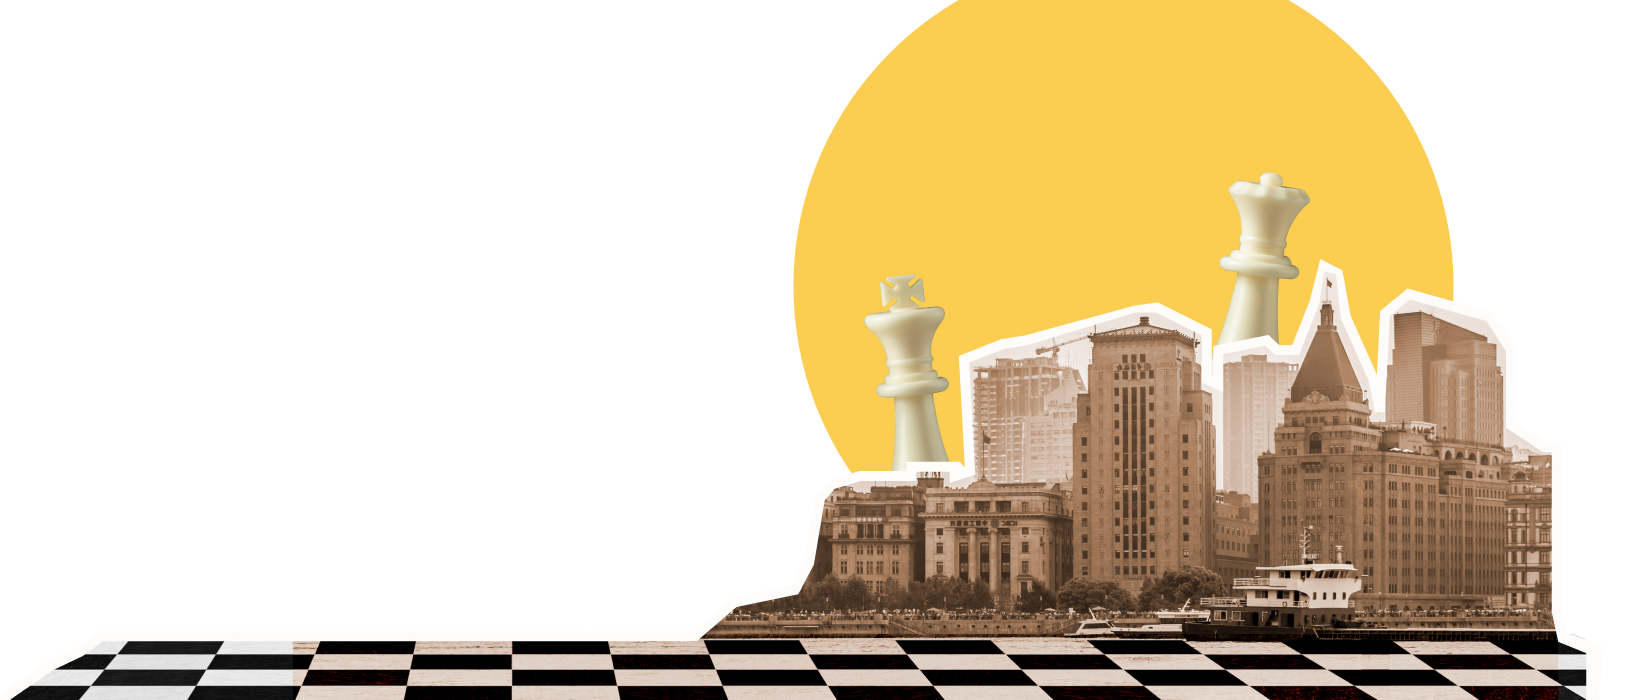
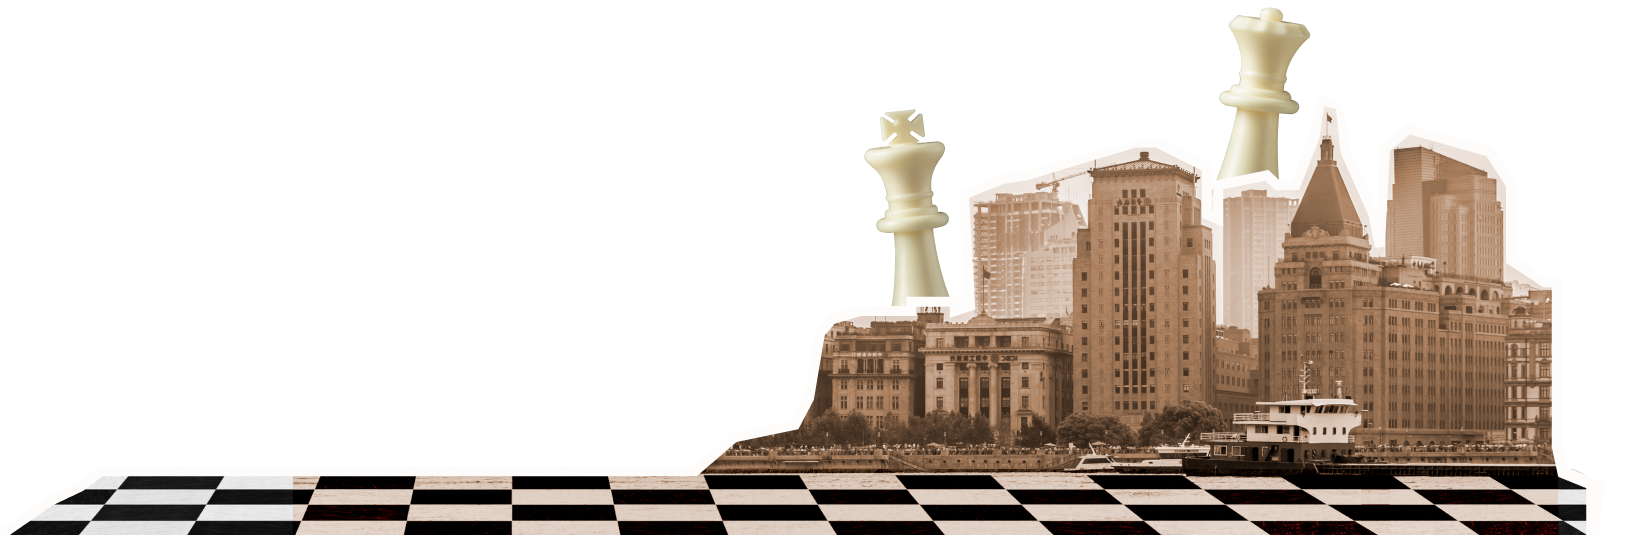
feat: added mobile version for header

diff --git a/blocks/header/header.css b/blocks/header/header.css
@@ -1,19 +1,25 @@
 .header {
-	padding: 26px 158px 0;
-	max-width: 1920px;
 	min-height: 700px;
-	background-color: #e9ded4;
-	background-image: url(../../img/horse.png), url(../../img/mask.png),
-		url(../../img/city.png);
-	background-repeat: no-repeat, no-repeat, no-repeat;
-	background-position: calc(50% + 385px) 100%, center, center;
-	background-blend-mode: normal, color-burn;
+	max-width: 1920px;
+	position: relative;
 }
 
-@media (max-width: 1366px) {
+@media screen and (max-width: 768px) {
 	.header {
-		padding: 26px 72px 0;
-		aspect-ratio: 1628/700;
+		min-height: 750px;
+	}
+}
+
+.header__content-wrapper {
+	padding-top: 26px;
+	margin: 0 clamp(72px, -9.37rem + 16.25vw, 162px);
+	border: 1px solid rgb(0, 255, 13);
+}
+
+@media screen and (max-width: 1366px) {
+	.header__content-wrapper {
+		padding-top: clamp(18px, 0.936rem + 0.81vw, 26px);
+		margin: 0 clamp(20px, 0.02rem + 5.25vw, 72px);
 	}
 }
 
@@ -29,6 +35,13 @@
 	height: 31px;
 }
 
+@media screen and (max-width: 768px) {
+	.header__logo-img {
+		width: 78px;
+		height: 27px;
+	}
+}
+
 .header__logo-text {
 	text-transform: uppercase;
 	font-size: 16.65px;
@@ -38,17 +51,26 @@
 	max-width: 147px;
 }
 
-.header__content-wrapper {
+@media screen and (max-width: 768px) {
+	.header__logo-text {
+		font-size: 14.42px;
+	}
+}
+
+.header__info-wrapper {
+	margin-top: clamp(40px, 1.98rem + 2.22vw, 62px);
 	max-width: 542px;
+	/* max-width: clamp(335px, 1.98rem + 2.22vw, 542px); */
+	border: 1px solid red;
 }
 
 .header__title {
-
+	margin: 0;
 	font-family: var(--font-title);
-	font-size: 60px;
+	font-size: clamp(36px, 1.682rem + 2.42vw, 60px);
 	line-height: 1.1;
 	text-transform: uppercase;
-	color: var(--text-color);
+	margin-bottom: 24px;
 }
 
 .header__text {
@@ -56,4 +78,121 @@
 	font-weight: 400;
 	line-height: 1.3;
 	text-align: center;
+}
+
+@media screen and (max-width: 768px) {
+	.header__text {
+		text-align: left;
+	}
+}
+
+.header__link-wrapper {
+	margin-top: clamp(32px, 1.811rem + 0.81vw, 40px);
+	display: flex;
+	gap: 16px;
+	justify-content: center;
+}
+
+@media screen and (max-width: 500px) {
+	.header__link-wrapper {
+		flex-direction: column;
+		align-items: center;
+		gap: 14px;
+	}
+}
+
+.header__bg {
+	background-color: #e9ded4;
+	position: relative;
+	overflow: hidden;
+	min-height: 700px;
+	position: absolute;
+	top: 0;
+	width: 100%;
+	z-index: -1;
+}
+
+@media screen and (max-width: 768px) {
+	.header__bg {
+		min-height: 750px;
+	}
+}
+
+.header__bg-item {
+	position: absolute;
+	background-position: center;
+	background-repeat: no-repeat;
+}
+
+.header__bg-item_type_circle {
+	z-index: 1;
+	background-image: url(../../img/circle.png);
+	left: 49.5%;
+	bottom: 11.5%;
+	width: 660px;
+	height: 660px;
+	animation: rotate 30s linear infinite;
+}
+
+@media screen and (max-width: 768px) {
+	.header__bg-item_type_circle {
+		width: 297px;
+		height: 297px;
+		background-size: cover;
+		left: auto;
+		bottom: auto;
+		left: calc(50% - 155px);
+		bottom: 5%;
+	}
+}
+
+.header__bg-item_type_city {
+	z-index: 2;
+	background-image: url(../../img/city.png);
+	bottom: 0;
+	width: 100%;
+	height: 535px;
+}
+
+@media screen and (max-width: 768px) {
+	.header__bg-item_type_city {
+		height: 245px;
+		background-size: cover;
+		background-position: calc(50% - 140px) bottom;
+	}
+}
+
+.header__bg-item_type_mask {
+	width: 100%;
+	height: 100%;
+	z-index: 3;
+	mix-blend-mode: color-burn;
+	background-image: url(../../img/mask.png);
+}
+
+.header__bg-item_type_chees {
+	z-index: 4;
+	background-image: url(../../img/horse.png);
+	bottom: 0;
+	right: calc(50% - 625px);
+	width: 486px;
+	height: 218px;
+}
+
+@media screen and (max-width: 768px) {
+	.header__bg-item_type_chees {
+		width: 90px;
+		height: 120px;
+		right: calc(50% - 45px);
+		background-image: url(../../img/small-horse.png);
+	}
+}
+
+@keyframes rotate {
+	from {
+		transform: rotate(0deg);
+	}
+	to {
+		transform: rotate(360deg);
+	}
 }

diff --git a/index.html b/index.html
@@ -4,28 +4,55 @@
 		<meta charset="UTF-8" />
 		<link rel="stylesheet" href="./pages/index.css" />
 		<meta name="viewport" content="width=device-width, initial-scale=1.0" />
-		<title>chess</title>
+		<title>Chess</title>
 	</head>
 	<body class="root">
 		<div class="page">
 			<header class="header">
-				<div class="header__logo">
-					<img class="header__logo-img" src="./img/logo.svg" alt="Логотип." />
-					<p class="header__logo-text">Клуб четырех&nbsp;коней</p>
+				<div class="header__content-wrapper">
+					<div class="header__logo">
+						<img class="header__logo-img" src="./img/logo.svg" alt="Логотип." />
+						<p class="header__logo-text">Клуб четырех&nbsp;коней</p>
+					</div>
+					<div class="header__info-wrapper">
+						<h1 class="header__title">
+							Превратите<br />уездный&nbsp;город <br />&ensp; &ensp;
+							в&nbsp;столицу<br />&ensp;земного&nbsp;шара
+						</h1>
+						<p class="header__text">
+							Оплатите взнос на телеграммы для организации Международного
+							васюкинского турнира по шахматам
+						</p>
+						<div class="header__link-wrapper">
+							<a class="link link_theme_dark transition" href="#support">
+								Поддержать шахматную мысль
+							</a>
+							<a class="link link_theme_light transition" href="#info"
+								>Подробнее о&nbsp;турнире</a
+							>
+						</div>
+					</div>
 				</div>
-			<div class="header__content-wrapper">
-					<h1 class="header__title">
-						Превратите уездный город &ensp; &ensp; в столицу&ensp;земного шара
-					</h1>
-					<p class='header__text'>
-						Оплатите взнос на телеграммы для организации Международного
-						васюкинского турнира по шахматам
-					</p>
-			</div>
+				<div class="header__bg">
+					<div class="header__bg-item header__bg-item_type_circle"></div>
+					<div class="header__bg-item header__bg-item_type_mask"></div>
+					<div class="header__bg-item header__bg-item_type_city"></div>
+					<div class="header__bg-item header__bg-item_type_chees"></div>
+				</div>
 			</header>
 
-			<main class="content"></main>
-			<footer class="footer"></footer>
+			<main class="content">
+				<div class="ticker">
+					<p class="ticker__text">
+						Дело помощи утопающим — дело рук самих утопающих! - Шахматы двигают
+						вперед не только культуру, но и экономику! - Лед тронулся, господа
+						присяжные заседатели!
+					</p>
+				</div>
+				<section aria-label="Support."></section>
+			</main>
+
+			<footer class="footer">ggggg</footer>
 		</div>
 	</body>
 </html>

diff --git a/blocks/link/link.css b/blocks/link/link.css
@@ -1,0 +1,51 @@
+.link {
+	width: 263px;
+	height: 72px;
+	padding: 20px 49px;
+	border-radius: 66px;
+	display: flex;
+	justify-content: center;
+	align-items: center;
+	text-align: center;
+	font-size: 16px;
+	font-weight: 500;
+	line-height: 1.3;
+}
+
+@media screen and (max-width: 500px) {
+	.link {
+		width: 100%;
+		height: 47px;
+		padding: 18px 43px;
+		white-space: nowrap;
+	}
+}
+
+.link_theme_dark {
+	background-color: var(--ui-dark-color);
+	color: var(--text-color-white);
+}
+
+.link_theme_dark:hover {
+	background-color: var(--ui-accent-color);
+	color: var(--text-color-dark);
+}
+
+.link_theme_light {
+	border: 2px solid var(--ui-dark-color);
+	background-color: transparent;
+	color: var(--text-color-dark);
+}
+
+@media screen and (max-width: 500px) {
+	.link_theme_light {
+		background-color: var(--ui-white-color);
+		color: var(--ui-dark-color);
+		border: none;
+	}
+}
+
+.link_theme_light:hover {
+	background-color: var(--ui-dark-color);
+	color: var(--text-color-white);
+}

diff --git a/blocks/ticker/ticker.css b/blocks/ticker/ticker.css
@@ -1,0 +1,34 @@
+.ticker {
+  width: 100%;
+	overflow: hidden;
+	white-space: nowrap;
+  
+	padding-top: clamp(10px, 0.436rem + 0.81vw, 18px);
+	padding-bottom: clamp(10px, 0.436rem + 0.81vw, 18px);
+	background-color: var(--ui-red-color);
+}
+
+
+.ticker__text {
+	text-transform: uppercase;
+	text-align: center;
+	display: inline-block;
+	padding-left: 100%;
+
+	color: var(--text-color-white);
+	font-family: var(--font-title);
+	font-size: clamp(16px, 0.858rem + 0.61vw, 22px);
+	font-weight: 400;
+	line-height: 1.1;
+
+	animation: text 20s infinite linear;
+}
+
+@keyframes text {
+	from {
+		transform: translateX(0%);
+	}
+	to {
+		transform: translateX(-100%);
+	}
+}

diff --git a/vars/vars.css b/vars/vars.css
@@ -1,8 +1,15 @@
 :root {
 	--font-main: 'Golos', sans-serif;
 	--font-title: 'Merriweather', sans-serif;
-  /* --font-main: 'Golos', sans-serif; */
+	/* --font-main: 'Golos', sans-serif; */
 
 	--text-color: #313131;
 	--text-color-light: #595653;
+	--text-color-white: #fff;
+	--text-color-dark: #1f1f1f;
+
+	--ui-accent-color: #fbce51;
+	--ui-white-color: #fff;
+	--ui-dark-color: #1f1f1f;
+	--ui-red-color: #f54932;
 }

diff --git a/pages/index.css b/pages/index.css
@@ -6,3 +6,8 @@
 @import url(../blocks/page/page.css);
 
 @import url(../blocks/header/header.css);
+
+@import url(../blocks/bth/btn.css);
+@import url(../blocks/link/link.css);
+@import url(../blocks/transition/transition.css);
+@import url(../blocks/ticker/ticker.css);

diff --git a/blocks/root/root.css b/blocks/root/root.css
@@ -1,5 +1,6 @@
 .root {
 	font-family: var(--font-main);
+	color: var(--text-color);
 	font-style: normal;
 	font-weight: 400;
 

diff --git a/blocks/transition/transition.css b/blocks/transition/transition.css
@@ -1,0 +1,3 @@
+.transition {
+	transition: all 0.8s ease-in-out;
+}
